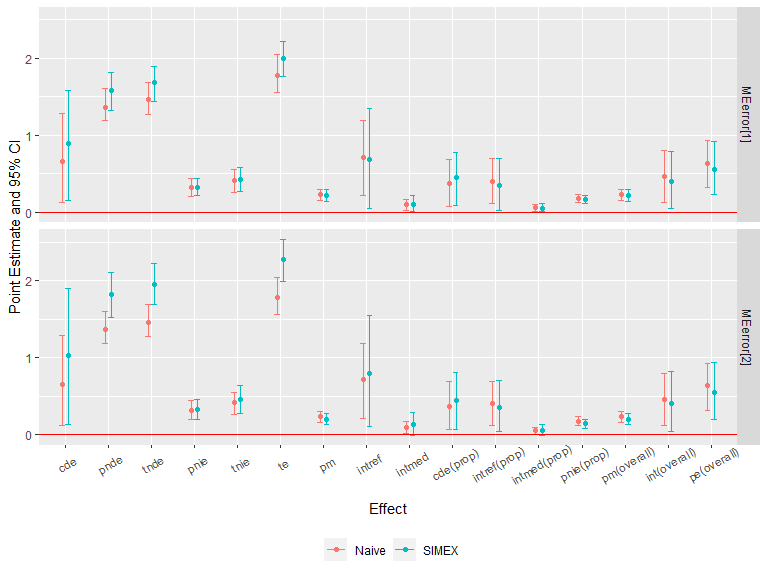
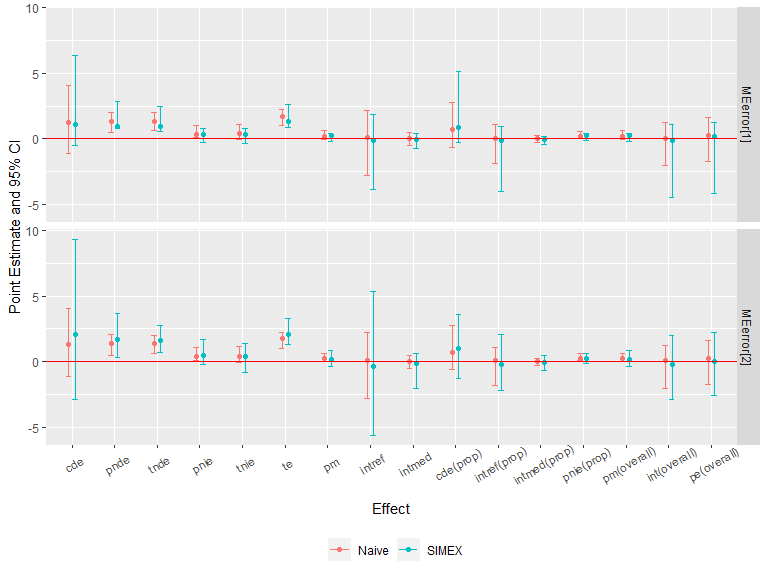
update readme

diff --git a/README.md b/README.md
@@ -295,6 +295,7 @@ al. (2017)](https://www.ncbi.nlm.nih.gov/pmc/articles/PMC5285457/).
 </tbody>
 </table>
 <section class="footnotes" role="doc-endnotes">
+<hr />
 <ol>
 <li id="fn1" role="doc-endnote"><p>rb: the regression-based approach; wb: the weighting-based approach; iorw: the inverse odds ratio weighting approach; ne: the natural effect model; msm: the marginal structural model; gformula: the g-formula approach.<a href="#fnref1" class="footnote-back" role="doc-backlink">↩</a></p></li>
 <li id="fn2" role="doc-endnote"><p>Y denotes the outcome, A denotes the exposure, M denotes the mediator(s) and C denotes the pre-exposure confounder(s).<a href="#fnref2" class="footnote-back" role="doc-backlink">↩</a></p></li>
@@ -349,7 +350,7 @@ scientific setting. The simulated dataset contains a binary exposure, a
 binary mediator, a continuous mediator, a continuous outcome and two
 pre-exposure confounders.
 
-    n <- 500
+    n <- 40
     C1 <- rnorm(n, mean = 1, sd = 1)
     C2 <- rbinom(n, 1, 0.6)
     C2[which(C2 == 0)] <- "C2_0"
@@ -383,7 +384,7 @@ mediators are set to be 0.
                     mediator = c("M1", "M2"), prec = c("C1", "C2"), EMint = TRUE,
                     mreg = list("logistic", "linear"), yreg = "linear",
                     astar = 0, a = 1, mval = list(0, 0),
-                    estimation = "imputation", inference = "bootstrap", nboot = 200)
+                    estimation = "imputation", inference = "bootstrap", nboot = 20)
 
 Summarizing and plotting the results:
 
@@ -395,23 +396,23 @@ Summarizing and plotting the results:
     ## Direct counterfactual imputation estimation with 
     ##  bootstrap standard errors, percentile confidence intervals and p-values 
     ##  
-    ##              Estimate Std.error  95% CIL 95% CIU  P.val    
-    ## cde          0.652104  0.302432 0.119752   1.286 <2e-16 ***
-    ## pnde         1.363955  0.105685 1.189296   1.603 <2e-16 ***
-    ## tnde         1.462572  0.103382 1.270759   1.688 <2e-16 ***
-    ## pnie         0.314901  0.065249 0.201855   0.441 <2e-16 ***
-    ## tnie         0.413518  0.078588 0.256741   0.549 <2e-16 ***
-    ## te           1.777473  0.123305 1.555952   2.045 <2e-16 ***
-    ## pm           0.232644  0.038471 0.152211   0.298 <2e-16 ***
-    ## intref       0.711851  0.259912 0.211973   1.185   0.02 *  
-    ## intmed       0.098617  0.040870 0.016445   0.169   0.02 *  
-    ## cde(prop)    0.366872  0.162440 0.070438   0.686 <2e-16 ***
-    ## intref(prop) 0.400485  0.153102 0.113031   0.695   0.02 *  
-    ## intmed(prop) 0.055482  0.022682 0.008527   0.092   0.02 *  
-    ## pnie(prop)   0.177162  0.031711 0.121976   0.231 <2e-16 ***
-    ## pm(overall)  0.232644  0.038471 0.152211   0.298 <2e-16 ***
-    ## int(overall) 0.455966  0.171840 0.124844   0.800   0.02 *  
-    ## pe(overall)  0.633128  0.162440 0.313650   0.930 <2e-16 ***
+    ##               Estimate Std.error   95% CIL 95% CIU  P.val    
+    ## cde           1.273118  1.595874 -1.112653   4.073    0.5    
+    ## pnde          1.363440  0.457976  0.456143   2.041 <2e-16 ***
+    ## tnde          1.367450  0.454533  0.641847   2.008 <2e-16 ***
+    ## pnie          0.375361  0.281897  0.102192   1.044 <2e-16 ***
+    ## tnie          0.379371  0.329860 -0.055357   1.117    0.2    
+    ## te            1.742811  0.349930  1.012953   2.224 <2e-16 ***
+    ## pm            0.217678  0.196140 -0.030231   0.654    0.2    
+    ## intref        0.090321  1.520498 -2.787506   2.188    1.0    
+    ## intmed        0.004010  0.268167 -0.521705   0.475    0.9    
+    ## cde(prop)     0.730497  1.017719 -0.617633   2.754    0.5    
+    ## intref(prop)  0.051825  0.942821 -1.834950   1.098    1.0    
+    ## intmed(prop)  0.002301  0.145790 -0.273135   0.248    0.9    
+    ## pnie(prop)    0.215377  0.167902  0.055972   0.605 <2e-16 ***
+    ## pm(overall)   0.217678  0.196140 -0.030231   0.654    0.2    
+    ## int(overall)  0.054126  1.064039 -2.061608   1.260    1.0    
+    ## pe(overall)   0.269503  1.017719 -1.753911   1.618    0.9    
     ## ---
     ## Signif. codes:  0 '***' 0.001 '**' 0.01 '*' 0.05 '.' 0.1 ' ' 1
 
@@ -428,17 +429,18 @@ analysis for unmeasured confounding:
     ## Sensitivity Analysis For Unmeasured Confounding 
     ## 
     ## Evalues on the ratio scale: 
-    ##         estRR  lowerRR  upperRR Evalue.estRR Evalue.lowerRR Evalue.upperRR
-    ## cde  1.296393 1.024390 1.640621     1.916265       1.182454             NA
-    ## pnde 1.721085 1.585125 1.868707     2.835109       2.548191             NA
-    ## tnde 1.789993 1.651549 1.940043     2.979145       2.688884             NA
-    ## pnie 1.133549 1.077397 1.192628     1.522631       1.366165             NA
-    ## tnie 1.178934 1.108955 1.253329     1.638228       1.456556             NA
-    ## te   2.029046 1.843294 2.233516     3.474030       3.090065             NA
+    ##         estRR   lowerRR  upperRR Evalue.estRR Evalue.lowerRR Evalue.upperRR
+    ## cde  1.617035 0.4976838 5.253942     2.615918       1.000000             NA
+    ## pnde 1.673120 1.1930619 2.346341     2.734350       1.672994             NA
+    ## tnde 1.675654 1.1979110 2.343928     2.739686       1.684819             NA
+    ## pnie 1.152227 0.9357052 1.418852     1.571035       1.000000             NA
+    ## tnie 1.153972 0.9045150 1.472228     1.575493       1.000000             NA
+    ## te   1.930734 1.4910994 2.499990     3.271256       2.346832             NA
 
 Assume that the continuous pre-exposure confounder was measured with
-error. Sensitivity analysis using regression calibration with a set of
-assumed standard deviations of the measurement error 0.1, 0.2 and 0.3:
+error. Sensitivity analysis for measurement error using regression
+calibration with a set of assumed standard deviations of the measurement
+error 0.1, 0.2 and 0.3:
 
     me1 <- cmsens(object = est, sens = "me", MEmethod = "rc", 
                   MEvariable = "C1", MEvartype = "con", MEerror = c(0.1, 0.2, 0.3))
@@ -456,22 +458,22 @@ Summarizing and plotting the results:
     ## 0.1
     ## Measurement error correction for measurement error 1: 
     ##              Estimate Std.error  95% CIL 95% CIU  P.val    
-    ## cde          0.650176  0.298744 0.135476   1.306   0.03 *  
-    ## pnde         1.341882  0.096823 1.207816   1.550 <2e-16 ***
-    ## tnde         1.439643  0.093473 1.288281   1.651 <2e-16 ***
-    ## pnie         0.317189  0.060142 0.208918   0.444 <2e-16 ***
-    ## tnie         0.414950  0.075346 0.253625   0.552 <2e-16 ***
-    ## te           1.756832  0.101825 1.576397   1.960 <2e-16 ***
-    ## pm           0.236192  0.038632 0.150744   0.297 <2e-16 ***
-    ## intref       0.691706  0.261361 0.119781   1.240   0.01 ** 
-    ## intmed       0.097761  0.044958 0.002776   0.172   0.04 *  
-    ## cde(prop)    0.370084  0.162073 0.073136   0.704   0.03 *  
-    ## intref(prop) 0.393723  0.149141 0.062778   0.689   0.01 ** 
-    ## intmed(prop) 0.055646  0.024706 0.001495   0.096   0.04 *  
-    ## pnie(prop)   0.180546  0.030706 0.126414   0.237 <2e-16 ***
-    ## pm(overall)  0.236192  0.038632 0.150744   0.297 <2e-16 ***
-    ## int(overall) 0.449370  0.170026 0.066626   0.776   0.01 ** 
-    ## pe(overall)  0.629916  0.162073 0.296054   0.927 <2e-16 ***
+    ## cde           1.27102   2.00787 -3.68202   2.764    0.7    
+    ## pnde          1.34051   0.52110  0.20819   1.932 <2e-16 ***
+    ## tnde          1.37234   0.36113  0.63274   1.834 <2e-16 ***
+    ## pnie          0.39304   0.27582 -0.11825   0.756    0.6    
+    ## tnie          0.42487   0.29915 -0.11463   0.866    0.3    
+    ## te            1.76538   0.39203  0.85927   2.148 <2e-16 ***
+    ## pm            0.24067   0.25315 -0.06564   0.807    0.3    
+    ## intref        0.06949   1.66750 -1.15252   4.034    0.8    
+    ## intmed        0.03183   0.26842 -0.26100   0.629    0.8    
+    ## cde(prop)     0.71997   1.82324 -4.26159   1.752    0.7    
+    ## intref(prop)  0.03936   1.73260 -0.93538   4.697    0.8    
+    ## intmed(prop)  0.01803   0.21570 -0.13694   0.592    0.8    
+    ## pnie(prop)    0.22264   0.18098 -0.10888   0.497    0.6    
+    ## pm(overall)   0.24067   0.25315 -0.06564   0.807    0.3    
+    ## int(overall)  0.05739   1.88775 -0.86013   5.206    0.8    
+    ## pe(overall)   0.28003   1.82324 -0.75224   5.262    0.8    
     ## ---
     ## Signif. codes:  0 '***' 0.001 '**' 0.01 '*' 0.05 '.' 0.1 ' ' 1
     ## ----------------------------------------------------------------
@@ -479,23 +481,23 @@ Summarizing and plotting the results:
     ## Measurement error 2: 
     ## 0.2
     ## Measurement error correction for measurement error 2: 
-    ##              Estimate Std.error 95% CIL 95% CIU  P.val    
-    ## cde           0.64397   0.30224 0.08900   1.235   0.01 ** 
-    ## pnde          1.36539   0.10365 1.12675   1.560 <2e-16 ***
-    ## tnde          1.46085   0.10060 1.25102   1.640 <2e-16 ***
-    ## pnie          0.32466   0.06802 0.19550   0.461 <2e-16 ***
-    ## tnie          0.42013   0.08252 0.25531   0.578 <2e-16 ***
-    ## te            1.78551   0.11426 1.53618   1.987 <2e-16 ***
-    ## pm            0.23530   0.04155 0.15357   0.331 <2e-16 ***
-    ## intref        0.72141   0.26216 0.17944   1.245   0.01 ** 
-    ## intmed        0.09546   0.04102 0.01804   0.181   0.02 *  
-    ## cde(prop)     0.36066   0.16222 0.05066   0.683   0.01 ** 
-    ## intref(prop)  0.40404   0.15297 0.10110   0.719   0.01 ** 
-    ## intmed(prop)  0.05347   0.02276 0.01085   0.096   0.02 *  
-    ## pnie(prop)    0.18183   0.03427 0.12125   0.245 <2e-16 ***
-    ## pm(overall)   0.23530   0.04155 0.15357   0.331 <2e-16 ***
-    ## int(overall)  0.45750   0.17122 0.12145   0.803   0.01 ** 
-    ## pe(overall)   0.63934   0.16222 0.31706   0.949 <2e-16 ***
+    ##              Estimate Std.error  95% CIL 95% CIU  P.val    
+    ## cde           1.26407   1.39733 -1.66839   2.726    0.6    
+    ## pnde          1.34393   0.46566  0.49135   2.015 <2e-16 ***
+    ## tnde          1.36339   0.44596  0.49689   2.026 <2e-16 ***
+    ## pnie          0.39303   0.31283 -0.06963   1.044    0.2    
+    ## tnie          0.41250   0.32592 -0.07940   1.066    0.1 .  
+    ## te            1.75643   0.35076  1.24339   2.287 <2e-16 ***
+    ## pm            0.23485   0.20550 -0.04816   0.663    0.1 .  
+    ## intref        0.07986   1.33312 -1.16717   3.112    0.7    
+    ## intmed        0.01946   0.21036 -0.30378   0.354    0.7    
+    ## cde(prop)     0.71968   0.82998 -0.99769   1.683    0.6    
+    ## intref(prop)  0.04547   0.82941 -0.77446   1.941    0.7    
+    ## intmed(prop)  0.01108   0.12523 -0.18753   0.212    0.7    
+    ## pnie(prop)    0.22377   0.19616 -0.04367   0.680    0.2    
+    ## pm(overall)   0.23485   0.20550 -0.04816   0.663    0.1 .  
+    ## int(overall)  0.05655   0.88182 -0.85189   1.900    0.7    
+    ## pe(overall)   0.28032   0.82998 -0.68250   1.998    0.6    
     ## ---
     ## Signif. codes:  0 '***' 0.001 '**' 0.01 '*' 0.05 '.' 0.1 ' ' 1
     ## ----------------------------------------------------------------
@@ -503,23 +505,23 @@ Summarizing and plotting the results:
     ## Measurement error 3: 
     ## 0.3
     ## Measurement error correction for measurement error 3: 
-    ##              Estimate Std.error 95% CIL 95% CIU  P.val    
-    ## cde           0.63198   0.29928 0.03332   1.166   0.03 *  
-    ## pnde          1.34617   0.09832 1.17724   1.542 <2e-16 ***
-    ## tnde          1.45008   0.09451 1.27147   1.643 <2e-16 ***
-    ## pnie          0.33942   0.06324 0.21435   0.470 <2e-16 ***
-    ## tnie          0.44333   0.08013 0.29322   0.629 <2e-16 ***
-    ## te            1.78950   0.10635 1.60570   2.015 <2e-16 ***
-    ## pm            0.24774   0.04009 0.17224   0.326 <2e-16 ***
-    ## intref        0.71419   0.25690 0.23868   1.204   0.03 *  
-    ## intmed        0.10391   0.04226 0.02807   0.172   0.03 *  
-    ## cde(prop)     0.35316   0.16369 0.01993   0.653   0.03 *  
-    ## intref(prop)  0.39910   0.15022 0.13493   0.721   0.03 *  
-    ## intmed(prop)  0.05807   0.02345 0.01545   0.096   0.03 *  
-    ## pnie(prop)    0.18967   0.03171 0.12485   0.254 <2e-16 ***
-    ## pm(overall)   0.24774   0.04009 0.17224   0.326 <2e-16 ***
-    ## int(overall)  0.45717   0.16981 0.15901   0.809   0.03 *  
-    ## pe(overall)   0.64684   0.16369 0.34736   0.980 <2e-16 ***
+    ##               Estimate Std.error   95% CIL 95% CIU  P.val    
+    ## cde           1.249805  1.401813 -0.278105   4.035    0.2    
+    ## pnde          1.326775  0.326049  0.878606   2.113 <2e-16 ***
+    ## tnde          1.340006  0.397688  0.475963   1.854 <2e-16 ***
+    ## pnie          0.403599  0.327298 -0.027813   1.103    0.1 .  
+    ## tnie          0.416830  0.258349 -0.250328   0.646    0.1 .  
+    ## te            1.743605  0.282743  1.235112   2.250 <2e-16 ***
+    ## pm            0.239062  0.140727 -0.139532   0.349    0.1 .  
+    ## intref        0.076970  1.313001 -2.689711   1.374    0.7    
+    ## intmed        0.013231  0.280392 -0.683201   0.216    0.7    
+    ## cde(prop)     0.716794  0.856064 -0.185511   2.548    0.2    
+    ## intref(prop)  0.044144  0.811579 -1.728870   0.901    0.7    
+    ## intmed(prop)  0.007588  0.174005 -0.425317   0.128    0.7    
+    ## pnie(prop)    0.231474  0.195711 -0.017025   0.652    0.1 .  
+    ## pm(overall)   0.239062  0.140727 -0.139532   0.349    0.1 .  
+    ## int(overall)  0.051733  0.946489 -2.154187   0.995    0.7    
+    ## pe(overall)   0.283206  0.856064 -1.548267   1.186    1.0    
     ## ---
     ## Signif. codes:  0 '***' 0.001 '**' 0.01 '*' 0.05 '.' 0.1 ' ' 1
     ## ----------------------------------------------------------------
@@ -530,10 +532,11 @@ Summarizing and plotting the results:
 ![](man/figures/plot_cmsens_me_con-1.png)
 
 Then, assume that the exposure was measured with error. Sensitivity
-analysis using MCSIMEX with two assumed misclassification matrices:
+analysis for measurement error using MCSIMEX with two assumed
+misclassification matrices:
 
     me2 <- cmsens(object = est, sens = "me", MEmethod = "simex", MEvariable = "A", 
-                  MEvartype = "cat", B = 200,
+                  MEvartype = "cat", B = 5,
                   MEerror = list(matrix(c(0.95, 0.05, 0.05, 0.95), nrow = 2), 
                                  matrix(c(0.9, 0.1, 0.1, 0.9), nrow = 2)))
 
@@ -552,23 +555,23 @@ Summarizing and plotting the results:
     ## [2,] 0.05 0.95
     ## 
     ## Measurement error correction for measurement error 1: 
-    ##               Estimate Std.error   95% CIL 95% CIU  P.val    
-    ## cde          0.8945024 0.3871525 0.1492615   1.582   0.02 *  
-    ## pnde         1.5765685 0.1258464 1.3234547   1.816 <2e-16 ***
-    ## tnde         1.6790177 0.1179686 1.4393384   1.889 <2e-16 ***
-    ## pnie         0.3182480 0.0591081 0.2088198   0.431 <2e-16 ***
-    ## tnie         0.4206972 0.0841171 0.2668204   0.579 <2e-16 ***
-    ## te           1.9972657 0.1267544 1.7631486   2.222 <2e-16 ***
-    ## pm           0.2106366 0.0401126 0.1424340   0.292 <2e-16 ***
-    ## intref       0.6820661 0.3304191 0.0484832   1.346   0.01 ** 
-    ## intmed       0.1024492 0.0613380 0.0009652   0.217   0.05 *  
-    ## cde(prop)    0.4478635 0.1877502 0.0836195   0.777   0.02 *  
-    ## intref(prop) 0.3415000 0.1695025 0.0248744   0.690   0.01 ** 
-    ## intmed(prop) 0.0512947 0.0305617 0.0004546   0.106   0.05 *  
-    ## pnie(prop)   0.1593418 0.0280239 0.1135719   0.220 <2e-16 ***
-    ## pm(overall)  0.2106366 0.0401126 0.1424340   0.292 <2e-16 ***
-    ## int(overall) 0.3927947 0.1957231 0.0466234   0.786   0.01 ** 
-    ## pe(overall)  0.5521365 0.1877502 0.2231758   0.916 <2e-16 ***
+    ##              Estimate Std.error  95% CIL 95% CIU  P.val    
+    ## cde           1.09324   2.01041 -0.51816   6.370    0.1 .  
+    ## pnde          0.96771   0.55788  0.76430   2.866 <2e-16 ***
+    ## tnde          0.94099   0.49502  0.58297   2.437 <2e-16 ***
+    ## pnie          0.35133   0.31609 -0.24260   0.802    0.2    
+    ## tnie          0.32461   0.32142 -0.33704   0.816    1.0    
+    ## te            1.29232   0.48032  0.86513   2.597 <2e-16 ***
+    ## pm            0.25119   0.15678 -0.17457   0.387    1.0    
+    ## intref       -0.12553   1.74065 -3.84111   1.857    0.5    
+    ## intmed       -0.02672   0.36864 -0.74270   0.392    0.7    
+    ## cde(prop)     0.84595   1.50323 -0.26566   5.157    0.1 .  
+    ## intref(prop) -0.09714   1.40958 -4.04172   0.934    0.5    
+    ## intmed(prop) -0.02068   0.20662 -0.45985   0.196    0.7    
+    ## pnie(prop)    0.27186   0.16902 -0.13962   0.443    0.2    
+    ## pm(overall)   0.25119   0.15678 -0.17457   0.387    1.0    
+    ## int(overall) -0.11781   1.57401 -4.46861   1.130    0.5    
+    ## pe(overall)   0.15405   1.50323 -4.15657   1.266    0.5    
     ## ---
     ## Signif. codes:  0 '***' 0.001 '**' 0.01 '*' 0.05 '.' 0.1 ' ' 1
     ## ----------------------------------------------------------------
@@ -580,22 +583,22 @@ Summarizing and plotting the results:
     ## 
     ## Measurement error correction for measurement error 2: 
     ##               Estimate Std.error   95% CIL 95% CIU  P.val    
-    ## cde           1.022830  0.447496  0.136582   1.903   0.02 *  
-    ## pnde          1.816960  0.138651  1.527922   2.102 <2e-16 ***
-    ## tnde          1.953989  0.132696  1.697986   2.220 <2e-16 ***
-    ## pnie          0.324059  0.067137  0.193591   0.461 <2e-16 ***
-    ## tnie          0.461088  0.099732  0.272218   0.641 <2e-16 ***
-    ## te            2.278048  0.143287  1.991128   2.534 <2e-16 ***
-    ## pm            0.202405  0.040998  0.129682   0.280 <2e-16 ***
-    ## intref        0.794130  0.373341  0.102845   1.546   0.01 ** 
-    ## intmed        0.137029  0.080284 -0.011217   0.289   0.07 .  
-    ## cde(prop)     0.448994  0.190799  0.064340   0.809   0.02 *  
-    ## intref(prop)  0.348601  0.171124  0.043742   0.704   0.01 ** 
-    ## intmed(prop)  0.060152  0.035016 -0.004984   0.134   0.07 .  
-    ## pnie(prop)    0.142253  0.027607  0.081146   0.196 <2e-16 ***
-    ## pm(overall)   0.202405  0.040998  0.129682   0.280 <2e-16 ***
-    ## int(overall)  0.408753  0.200642  0.045303   0.824   0.02 *  
-    ## pe(overall)   0.551006  0.190799  0.190915   0.936 <2e-16 ***
+    ## cde           2.089372  3.309598 -2.925036   9.292    0.7    
+    ## pnde          1.707111  0.935999  0.319811   3.655    0.1 .  
+    ## tnde          1.597892  0.562148  0.706381   2.758 <2e-16 ***
+    ## pnie          0.471754  0.519230 -0.200292   1.719    0.2    
+    ## tnie          0.362535  0.657311 -0.851320   1.375    0.4    
+    ## te            2.069646  0.555434  1.288233   3.263 <2e-16 ***
+    ## pm            0.175168  0.357698 -0.385778   0.873    0.4    
+    ## intref       -0.382262  2.758013 -5.637616   5.365    1.0    
+    ## intmed       -0.109219  0.779818 -2.077662   0.654    0.9    
+    ## cde(prop)     1.009531  1.400897 -1.254289   3.556    0.7    
+    ## intref(prop) -0.184699  1.150430 -2.195524   2.030    1.0    
+    ## intmed(prop) -0.052772  0.297905 -0.709989   0.428    0.9    
+    ## pnie(prop)    0.227940  0.197178 -0.107175   0.633    0.2    
+    ## pm(overall)   0.175168  0.357698 -0.385778   0.873    0.4    
+    ## int(overall) -0.237471  1.385430 -2.896411   2.020    1.0    
+    ## pe(overall)  -0.009531  1.400897 -2.556262   2.254    0.9    
     ## ---
     ## Signif. codes:  0 '***' 0.001 '**' 0.01 '*' 0.05 '.' 0.1 ' ' 1
     ## ----------------------------------------------------------------
@@ -654,8 +657,8 @@ Schomaker M, Heumann C. Bootstrap inference when using multiple
 imputation (2018). Statistics in Medicine. 37(14): 2252 - 2266.
 
 VanderWeele TJ, Ding P. Sensitivity analysis in observational research:
-introducing the E-Value (2017). Annals of Internal Medicine. 167(4): 
-268 - 274.
+introducing the E-Value (2017). Annals of Internal Medicine. 167(4): 268
+- 274.
 
 Smith LH, VanderWeele TJ. Mediational E-values: Approximate sensitivity
 analysis for unmeasured mediator-outcome confounding (2019).
